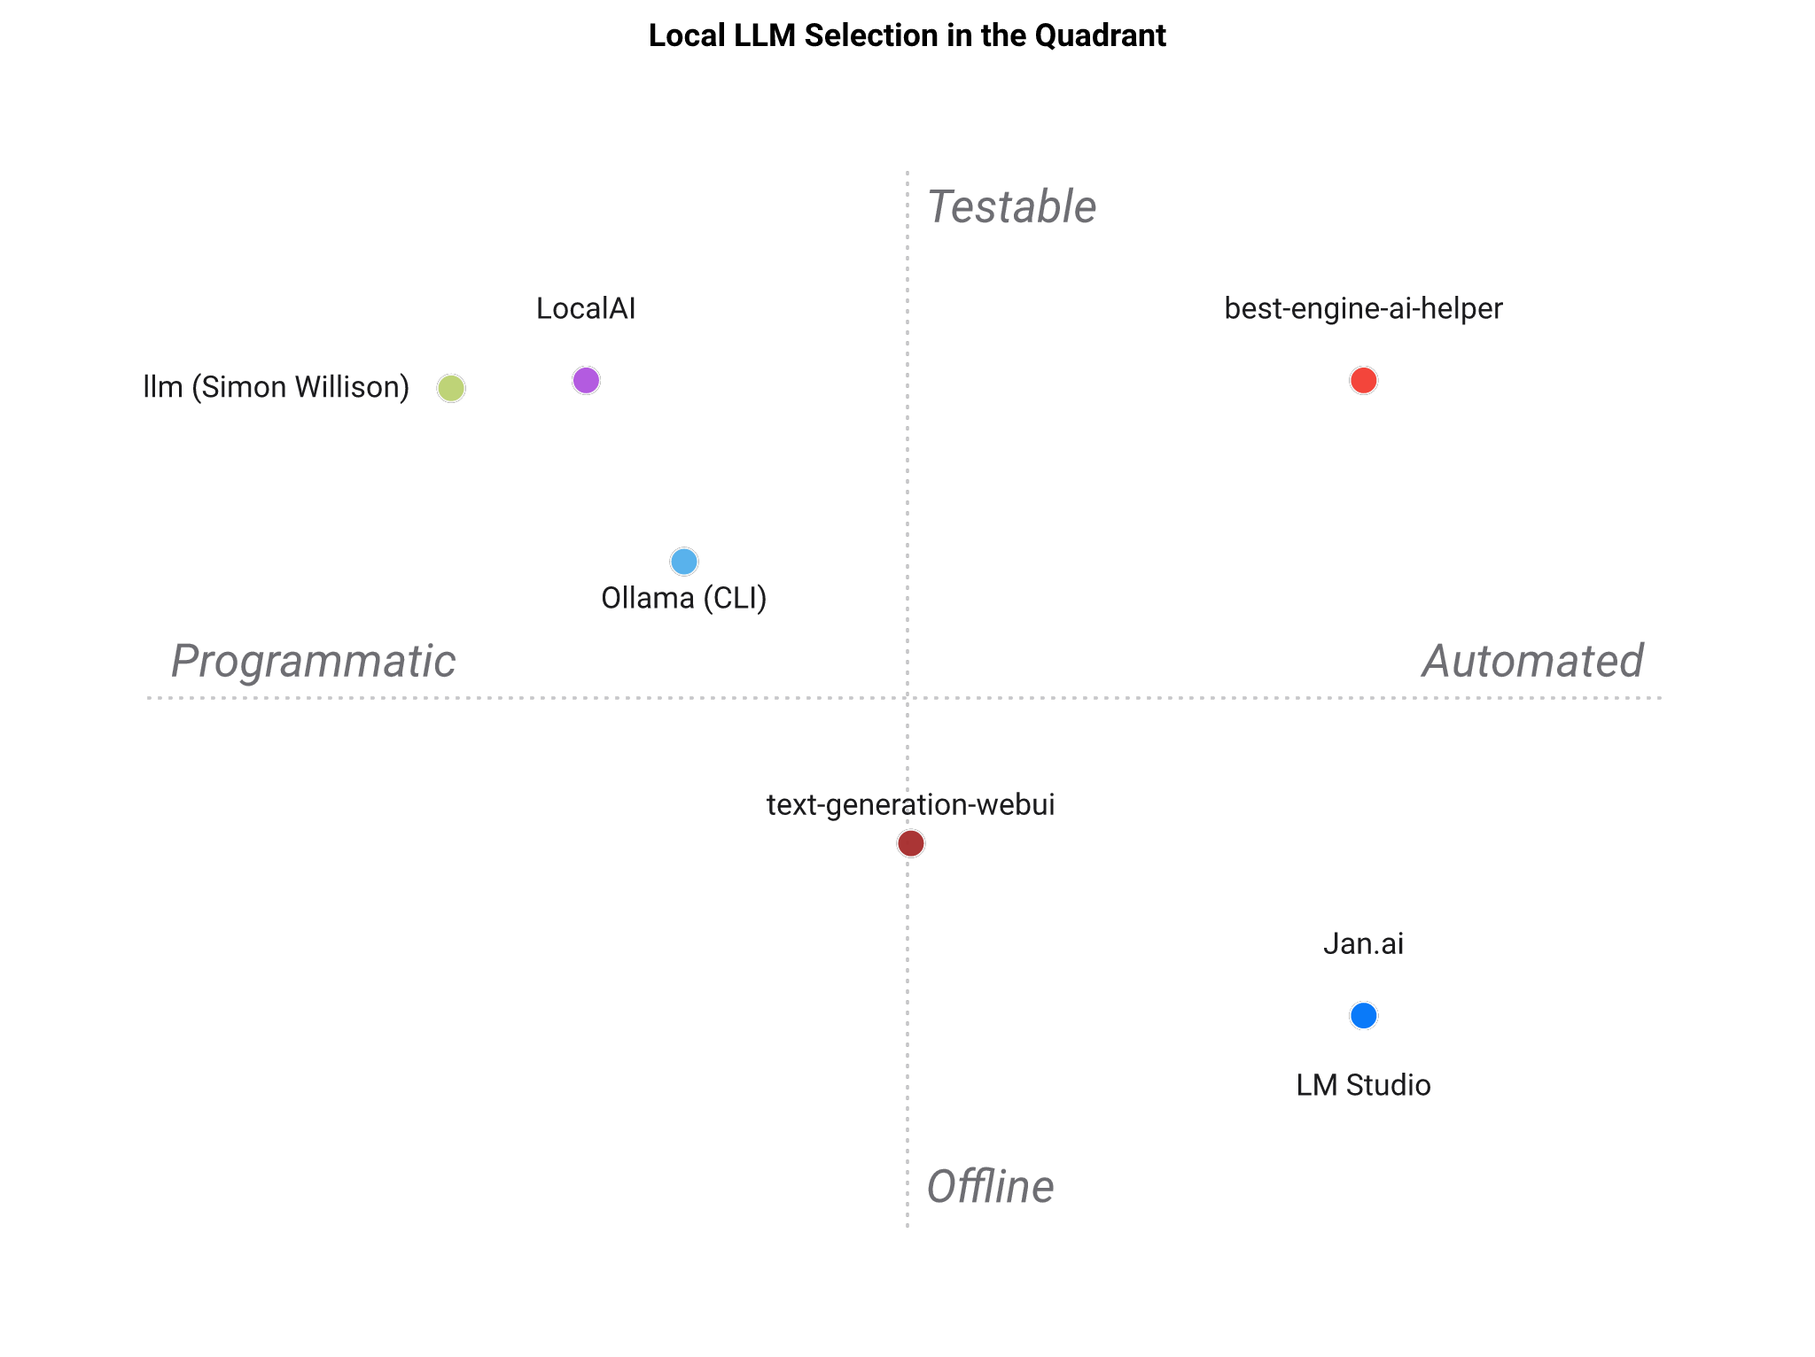
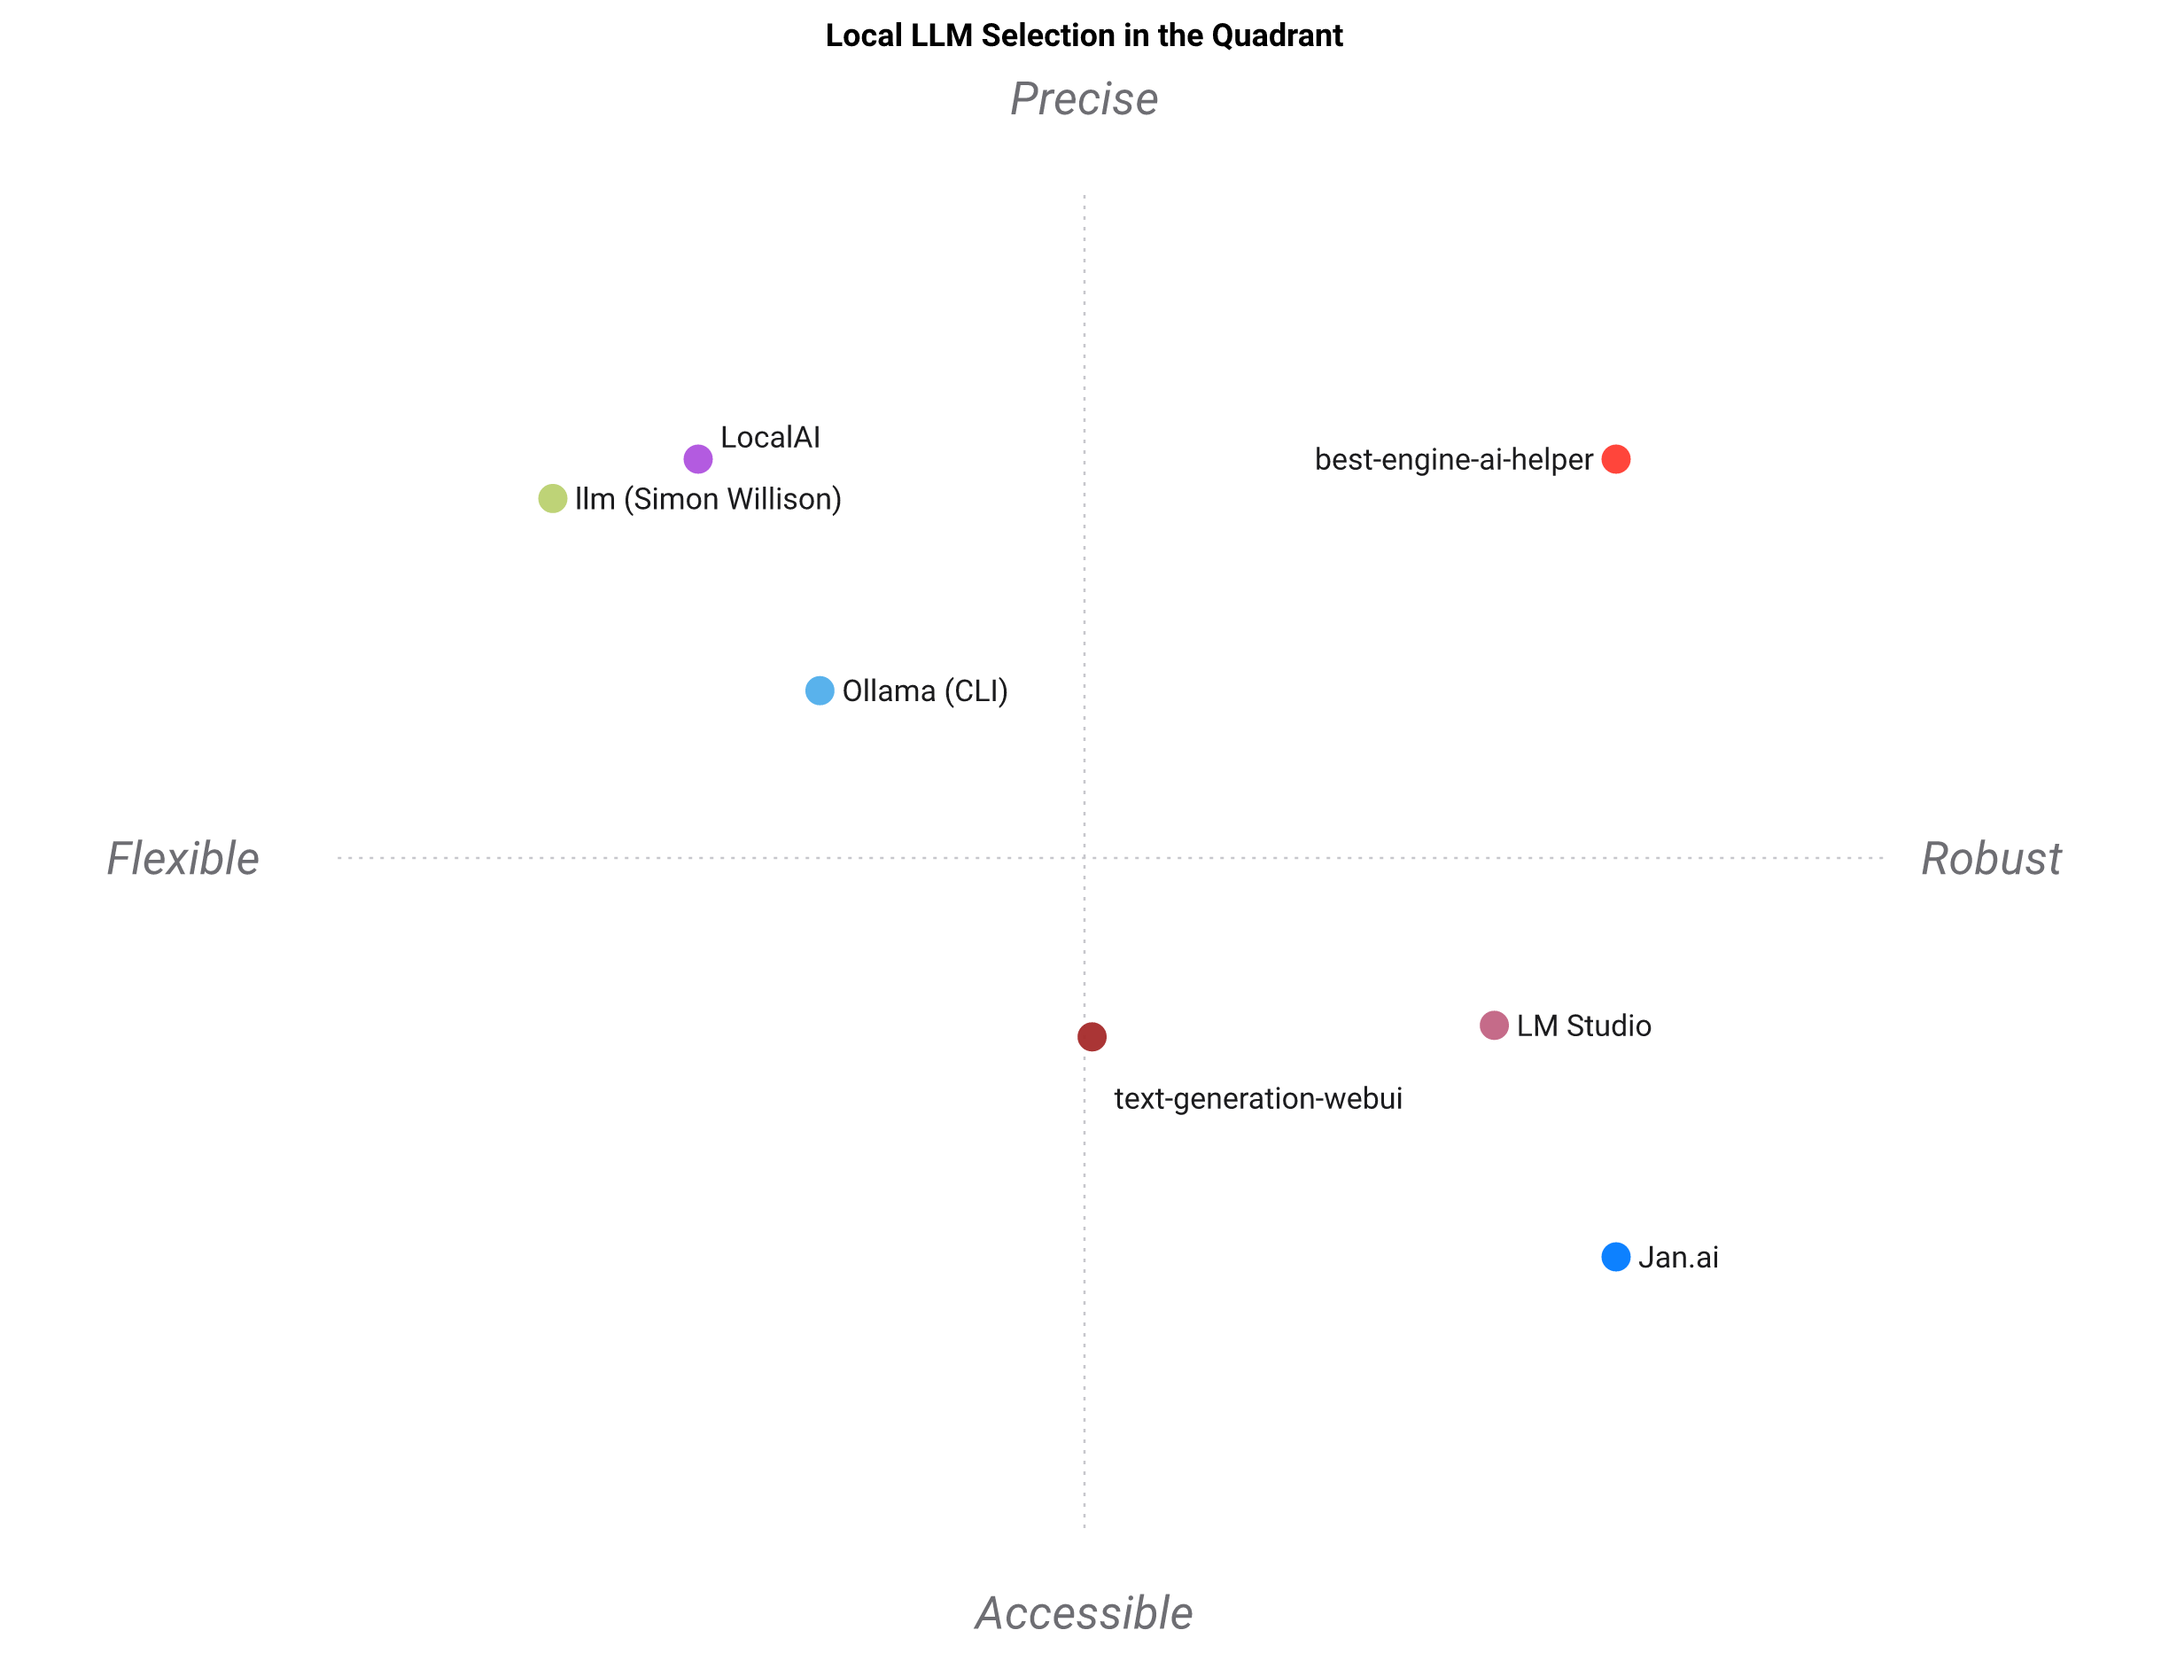
docs: regenerate LANDSCAPE/PAYSAGE positioning figures
Rerun via gen_landscape.py against the current standpoint (Vega retired,
SVG+resvg_py pipeline). Also fixed a data tie: LM Studio and Jan.ai had
identical ratings, which the newer standpoint validator rejects — LM
Studio's Programmatic API bumped 2->3 (official OpenAI-compatible
server + Python/TS SDKs + lms CLI, a more built-out surface than Jan.ai's).

diff --git a/PAYSAGE.md b/PAYSAGE.md
@@ -16,7 +16,7 @@ outil optimisé pour un usage très différent n'est pas pénalisé.
 | --- | :---: | :---: | :---: | :---: | :---: | :---: |
 | **best-engine-ai-helper** | ⭐⭐⭐⭐⭐ | ⭐⭐⭐⭐⭐ | ⭐⭐⭐⭐⭐ | ⭐⭐⭐⭐⭐ | ⭐⭐⭐⭐⭐ | ⭐⭐⭐⭐⭐ |
 | Ollama (CLI) | ⭐ | ⭐ | ⭐ | ⭐⭐⭐ | ⭐⭐ | ⭐⭐⭐⭐ |
-| LM Studio | ⭐⭐ | ⭐⭐ | ⭐ | ⭐⭐⭐⭐ | ⭐ | ⭐⭐ |
+| LM Studio | ⭐⭐ | ⭐⭐ | ⭐ | ⭐⭐⭐⭐ | ⭐ | ⭐⭐⭐ |
 | Jan.ai | ⭐⭐ | ⭐⭐ | ⭐ | ⭐⭐⭐⭐ | ⭐ | ⭐⭐ |
 | llm (Simon Willison) | ⭐ | ⭐ | ⭐ | ⭐⭐ | ⭐⭐⭐ | ⭐⭐⭐⭐ |
 | LocalAI | ⭐ | ⭐ | ⭐ | ⭐⭐⭐ | ⭐⭐ | ⭐⭐⭐⭐⭐ |
@@ -30,7 +30,7 @@ Représentation 2D du tableau ci-dessus.
 
 ![Carte de positionnement](https://raw.githubusercontent.com/warith-harchaoui/best-engine-ai-helper/main/assets/paysage.png)
 
-La carte est un résumé en 2D des 6 critères : à lire comme une forme, pas comme un classement. « best-engine-ai-helper » se situe dans le coin en haut à droite. Les axes se lisent **Horizontal — Flexibilité ↔ Automatisation** et **Vertical — Accessibilité ↔ Intégration**.
+La carte est un résumé en 2D des 6 critères : à lire comme une forme, pas comme un classement. « best-engine-ai-helper » se situe dans le coin en haut à droite. Les axes se lisent **Horizontal — Ingéniosité ↔ Autonomie** et **Vertical — Accessibilité ↔ Rigueur**.
 <!-- FIGURE:END -->
 
 ## Positionnement

diff --git a/LANDSCAPE.md b/LANDSCAPE.md
@@ -16,7 +16,7 @@ score reflects fit to *this* niche.
 | --- | :---: | :---: | :---: | :---: | :---: | :---: |
 | **best-engine-ai-helper** | ⭐⭐⭐⭐⭐ | ⭐⭐⭐⭐⭐ | ⭐⭐⭐⭐⭐ | ⭐⭐⭐⭐⭐ | ⭐⭐⭐⭐⭐ | ⭐⭐⭐⭐⭐ |
 | Ollama (CLI) | ⭐ | ⭐ | ⭐ | ⭐⭐⭐ | ⭐⭐ | ⭐⭐⭐⭐ |
-| LM Studio | ⭐⭐ | ⭐⭐ | ⭐ | ⭐⭐⭐⭐ | ⭐ | ⭐⭐ |
+| LM Studio | ⭐⭐ | ⭐⭐ | ⭐ | ⭐⭐⭐⭐ | ⭐ | ⭐⭐⭐ |
 | Jan.ai | ⭐⭐ | ⭐⭐ | ⭐ | ⭐⭐⭐⭐ | ⭐ | ⭐⭐ |
 | llm (Simon Willison) | ⭐ | ⭐ | ⭐ | ⭐⭐ | ⭐⭐⭐ | ⭐⭐⭐⭐ |
 | LocalAI | ⭐ | ⭐ | ⭐ | ⭐⭐⭐ | ⭐⭐ | ⭐⭐⭐⭐⭐ |
@@ -30,7 +30,7 @@ score reflects fit to *this* niche.
 
 ![Positioning map](https://raw.githubusercontent.com/warith-harchaoui/best-engine-ai-helper/main/assets/landscape.png)
 
-The map is a 2-D summary of the six criteria, so read it as a shape, not a scoreboard. `best-engine-ai-helper` is at the top-right corner. The axes read **Horizontal — Programmatic ↔ Automated** and **Vertical — Offline ↔ Testable**.
+The map is a 2-D summary of the six criteria, so read it as a shape, not a scoreboard. `best-engine-ai-helper` is at the top-right corner. The axes read **Horizontal — Flexible ↔ Robust** and **Vertical — Accessible ↔ Precise**.
 <!-- FIGURE:END -->
 
 ## Positioning
